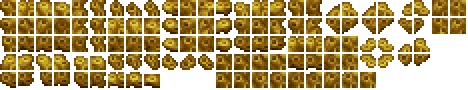
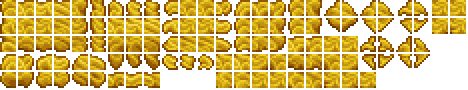
Eutro Glass glint, unimplented Crystal Glint (Not enough time) and New Yellow Coral

diff --git a/Tiles/SunkenSea/EutrophicGlass.cs b/Tiles/SunkenSea/EutrophicGlass.cs
@@ -1,4 +1,6 @@
-using CalamityMod.Systems;
+using System;
+using CalamityMod.Systems;
+using Microsoft.CodeAnalysis.Text;
 using Microsoft.Xna.Framework;
 using Microsoft.Xna.Framework.Graphics;
 using Terraria;
@@ -40,12 +42,22 @@ namespace CalamityMod.Tiles.SunkenSea
             num = fail ? 1 : 3;
         }
 
+        private static float GetFade1(int i, int j)
+        {
+            return (MathF.Sin(Main.GlobalTimeWrappedHourly * 0.2f) + 1f) / 2f;
+        }
+
+        private static float GetFade2(int i, int j)
+        {
+            return (MathF.Sin(Main.GlobalTimeWrappedHourly * 0.1f + i * 0.08f - j * 0.05f) + 1f) / 2f;
+        }
+
         public override void PostDraw(int i, int j, SpriteBatch spriteBatch)
         {
             if (Main.tile[i, j].IsTileActuallyInvisible())
                 return;
 
-            float transparency = 0.6f;
+            float transparency = 0.4f;
 
             // Must be set here 
             TileID.Sets.DrawsWalls[Type] = true;
@@ -62,6 +74,41 @@ namespace CalamityMod.Tiles.SunkenSea
 
             Color color = Lighting.GetColor(i, j) * transparency;
             TileFramingSystem.SlopedGlowmask(in tile, i, j, tex, frame, CalamityUtils.ApplyPaint(Main.tile[i, j].TileColor, color, false), default);
+
+            //IF this glint effect below runs poorly on lower end PC's we should keep it as a setting for those with good PC's
+
+            Vector2 offScreen = Main.drawToScreen ? Vector2.Zero : new Vector2(Main.offScreenRange);
+            Vector2 position = new Vector2(i * 16, j * 16) - Main.screenPosition + offScreen;
+            Texture2D GlintTex = ModContent.Request<Texture2D>(Texture + "_Glint").Value;
+
+            Vector2 glintDir = new Vector2(1f, 1f);
+            glintDir.Normalize();
+
+            Vector2 screenPos = position;
+
+            float projection = Vector2.Dot(screenPos, glintDir);
+
+            // this sets the length between the glints diagonally 
+            float screenDiagonalLength = Vector2.Dot(new Vector2(Main.screenWidth, Main.screenHeight), glintDir);
+            float[] beamCenters = new float[]
+            {
+              screenDiagonalLength * 0.53f, // upper glint
+              screenDiagonalLength * 0.63f,  // middle glint
+              screenDiagonalLength * 0.73f  // lower glint
+            };
+
+            float stripeWidth = 100f;
+
+            foreach (float bc in beamCenters)
+            {
+                float dist = Math.Abs(projection - bc);
+                float strength = MathHelper.Clamp(1f - dist / stripeWidth, 0f, 1f);
+
+                if (strength > 0f)
+                {
+                    spriteBatch.Draw(GlintTex, position, frame, (Lighting.GetColor(i, j) * 2 ) * (strength * 0.4f), 0f, Vector2.Zero, 1f, SpriteEffects.None, 0f);
+                }
+            }
         }
 
         public override bool TileFrame(int i, int j, ref bool resetFrame, ref bool noBreak)

diff --git a/Tiles/SunkenSea/SeaPrism.cs b/Tiles/SunkenSea/SeaPrism.cs
@@ -107,7 +107,7 @@ namespace CalamityMod.Tiles.SunkenSea
             spriteBatch.Draw(tex1, position, sourceRect, Lighting.GetColor(i, j) * 1.5f * GetFade1(i, j));
             spriteBatch.Draw(tex2, position, sourceRect, Lighting.GetColor(i, j) * 1.5f * GetFade2(i, j));
 
-            //Not sure sure how everything below will run on stuff so we may need to kill this cool glint thing I did
+            //IF this glint effect below runs poorly on lower end PC's we should keep it as a setting for those with good PC's
 
             Texture2D GlintTex = ModContent.Request<Texture2D>("CalamityMod/Tiles/SunkenSea/SeaPrism_GlintMask").Value;
 
